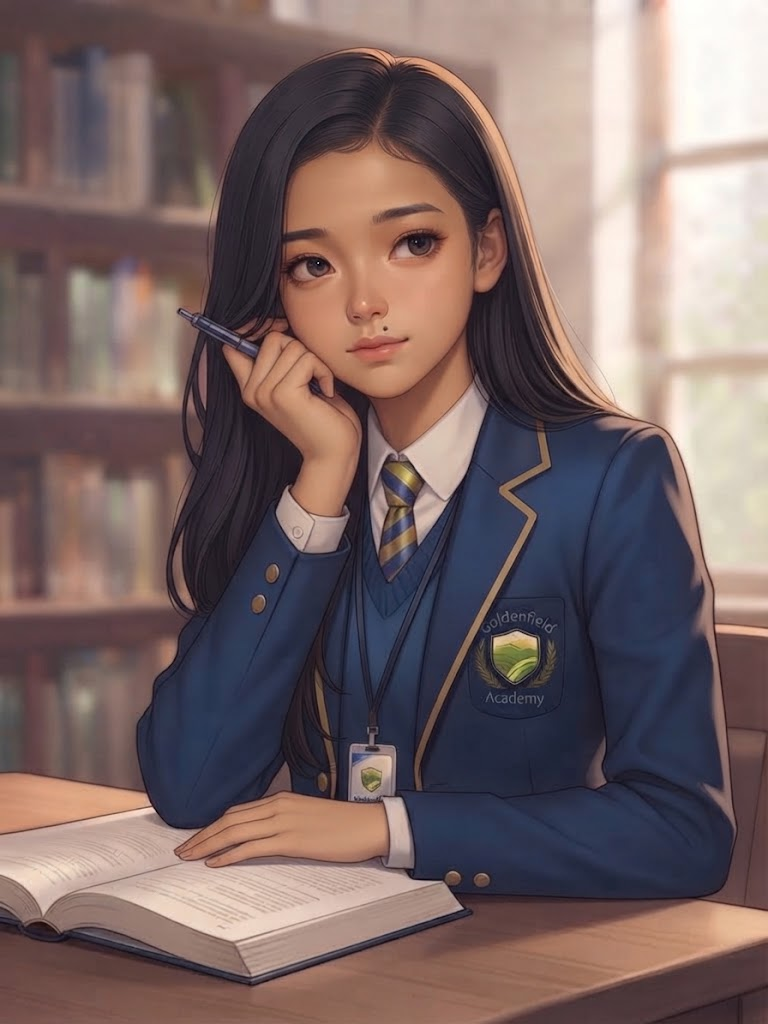
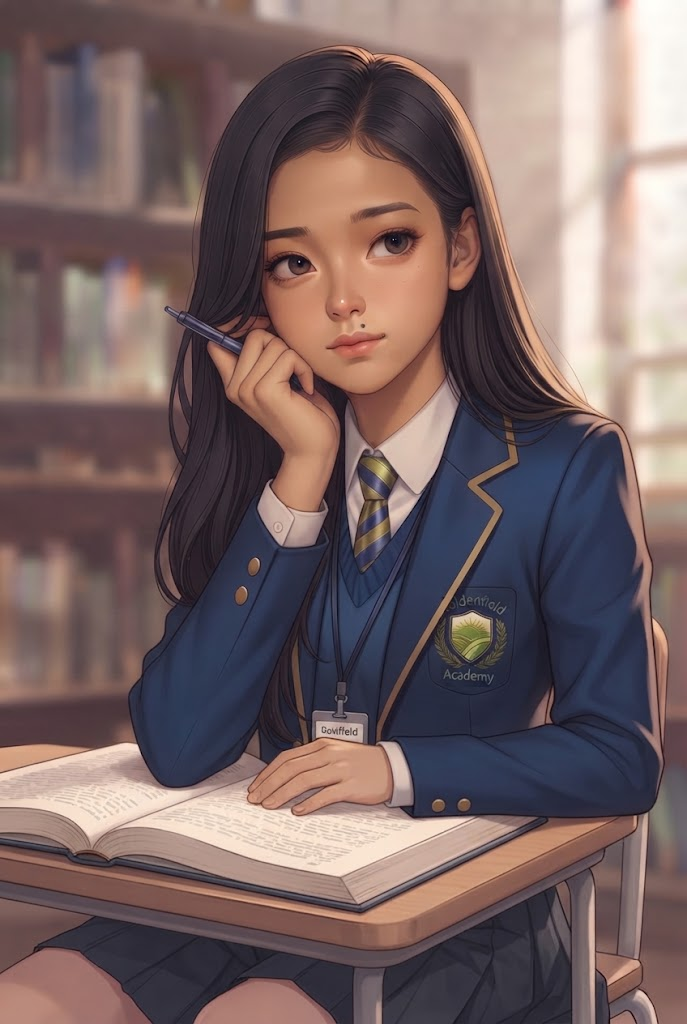
Home Page partially done

diff --git a/index.html b/index.html
@@ -9,12 +9,13 @@
 <body>
     <header>
         <div class="site-title">
-            <a href="index.html">Amiable 7th Wiki</a>
+            <a href="index.html">Amiable 7th</a>
 
         </div>
         <nav>
             <a href="index.html">Home</a>
             <a href="#characters">Characters</a>
+            <a href="preorder">Pre-Order</a>
             <a href="about.html">About Naige</a>
         </nav>
     </header>
@@ -210,17 +211,94 @@
                     <span>Elon</span>
                 </a>
                 </li>
-            <li>Justine</li>
-            <li>Brian</li>
-            <li>Max</li>
-            <li>Cath</li>
-            <li>Allana</li>
-            <li>Ms.Jhoffe</li>
-            <li>Mr.Paul</li>
-            <li>Ms.Miriam</li>
-            <li>Leslie</li>
-            <li>Florence</li>
-            <li>Cristle</li>
+            <li>
+                <a href="characters/justine.html" class="character-card">
+                    <div class="character-image">
+                      <img src="images/justine.jpg">
+                    </div>
+                    <span>Justine</span>
+                </a>
+            </li>
+            <li>
+                <a href="characters/brian.html" class="character-card">
+                    <div class="character-image">
+                        <img src="images/brian.jpg">
+                    </div>
+                    <span>Brian</span>
+                </a>
+            </li>
+            <li>
+                <a href="characters/max.html" class="character-card">
+                    <div class="character-image">
+                        <img src="images/max.jpg">
+                    </div>
+                    <span>Max</span>
+                </a>
+            </li>
+            <li>
+                <a href="characters/cath.html" class="character-card">
+                    <div class="character-image">
+                        <img src="images/cath.jpg">
+                    </div>
+                    <span>Cath</span>
+                </a>
+            </li>
+            <li>
+                <a href="characters/allana.html" class="character-card">
+                    <div class="character-image">
+                        <img src="images/allana.jpg">
+                    </div>
+                    <span>Allana</span>
+                </a>
+            </li>
+            <li>
+                <a href="characters/jhoffe.html" class="character-card">
+                    <div class="character-image">
+                        <img src="images/msjhoffe.jpg">
+                    </div>
+                    <span>Ms.Jhoffe</span>
+                </a>
+            </li>
+            <li>
+                <a href="characters/mrpaul.html" class="character-card">
+                    <div class="character-image">
+                        <img src="images/mrpaul.jpg">
+                    </div>
+                    <span>Mr.Paul</span>
+                </a>
+            </li>
+            <li>
+                <a href="characters/msmiriam.html" class="character-card">
+                    <div class="character-image">
+                        <img src="images/miriam.jpg">
+                    </div>
+                    <span>Ms.Miriam</span>
+                </a>
+            </li>
+            <li>
+                <a href="characters/leslie.html" class="character-card">
+                    <div class="character-image">
+                        <img src="images/leslie.jpg">
+                    </div>
+                    <span>Leslie</span>
+                </a>
+            </li>
+            <li>
+                <a href="characters/florence.html" class="character-card">
+                    <div class="character-image">
+                        <img src="images/florence.jpg">
+                    </div>
+                    <span>Florence</span>
+                </a>
+            </li>
+            <li>
+                <a href="characters/cristle.html" class="character-card">
+                    <div class="character-image">
+                        <img src="images/cristle.jpg">
+                    </div>
+                    <span>Cristle</span>
+                </a>
+            </li>
 
         </ul>
     </div>

diff --git a/about.html b/about.html
@@ -1,6 +1,23 @@
 <!DOCTYPE html>
 <html>
+<head>
+    <title>The Author</title>
+    <link rel="stylesheet" href="css/style.css">
+</head>
+<body>
+    <header>
+        <div class="site-title">
+           <a href="index.html"> Amiable 7th</a>
+        </div>
 
+        <nav>
+            <a href="index.html">Home</a>
+            <a href="index.html#characters">Characters</a>
+            <a href="preorder.html">Pre-order</a>
+            <a href="about.html">About Naige</a>
+        </nav>
+    </header>
+</body>
 
 
 
